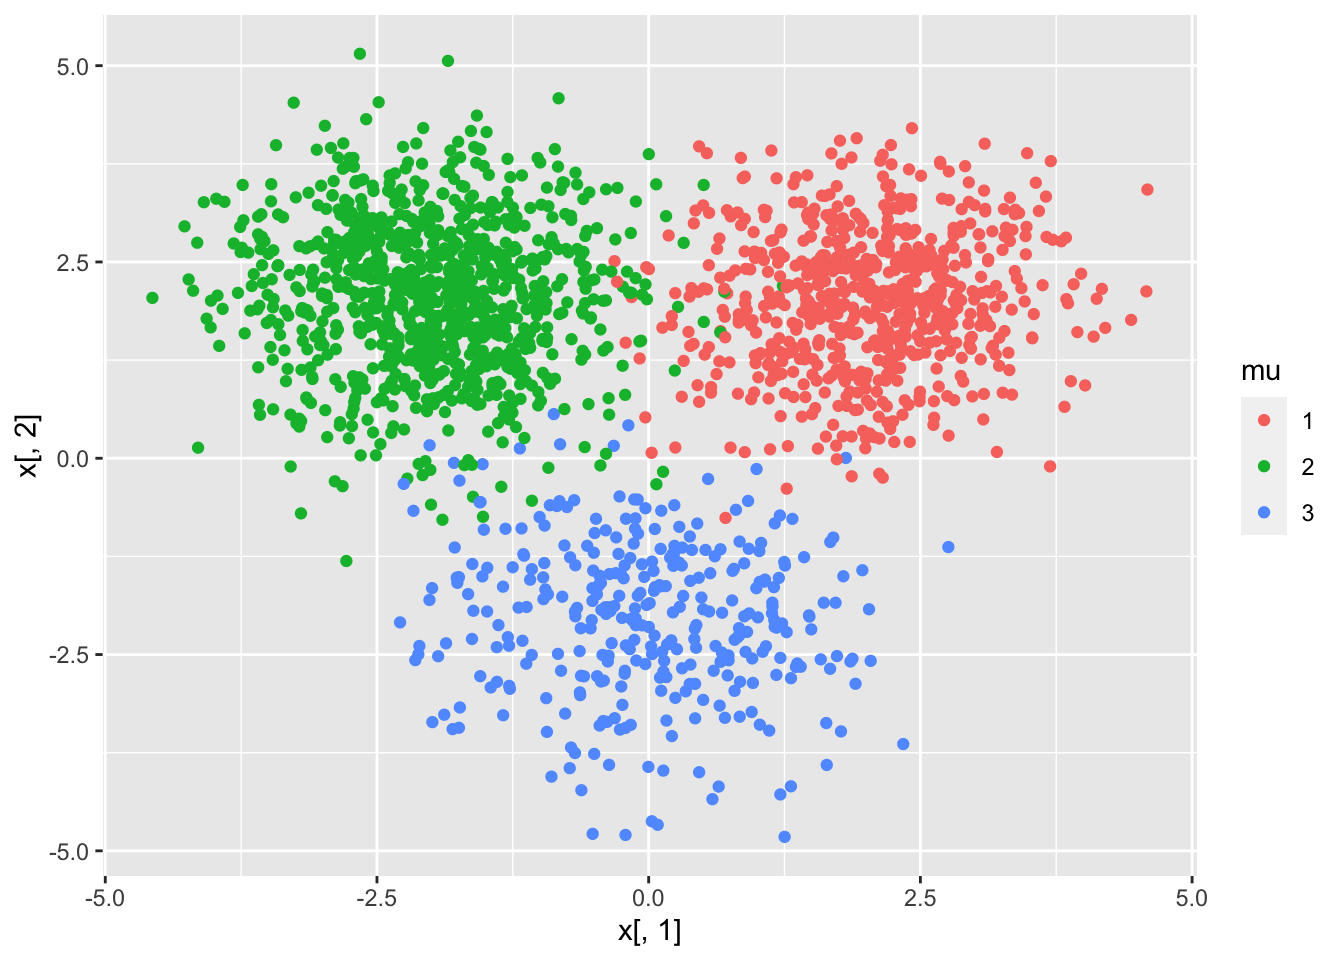
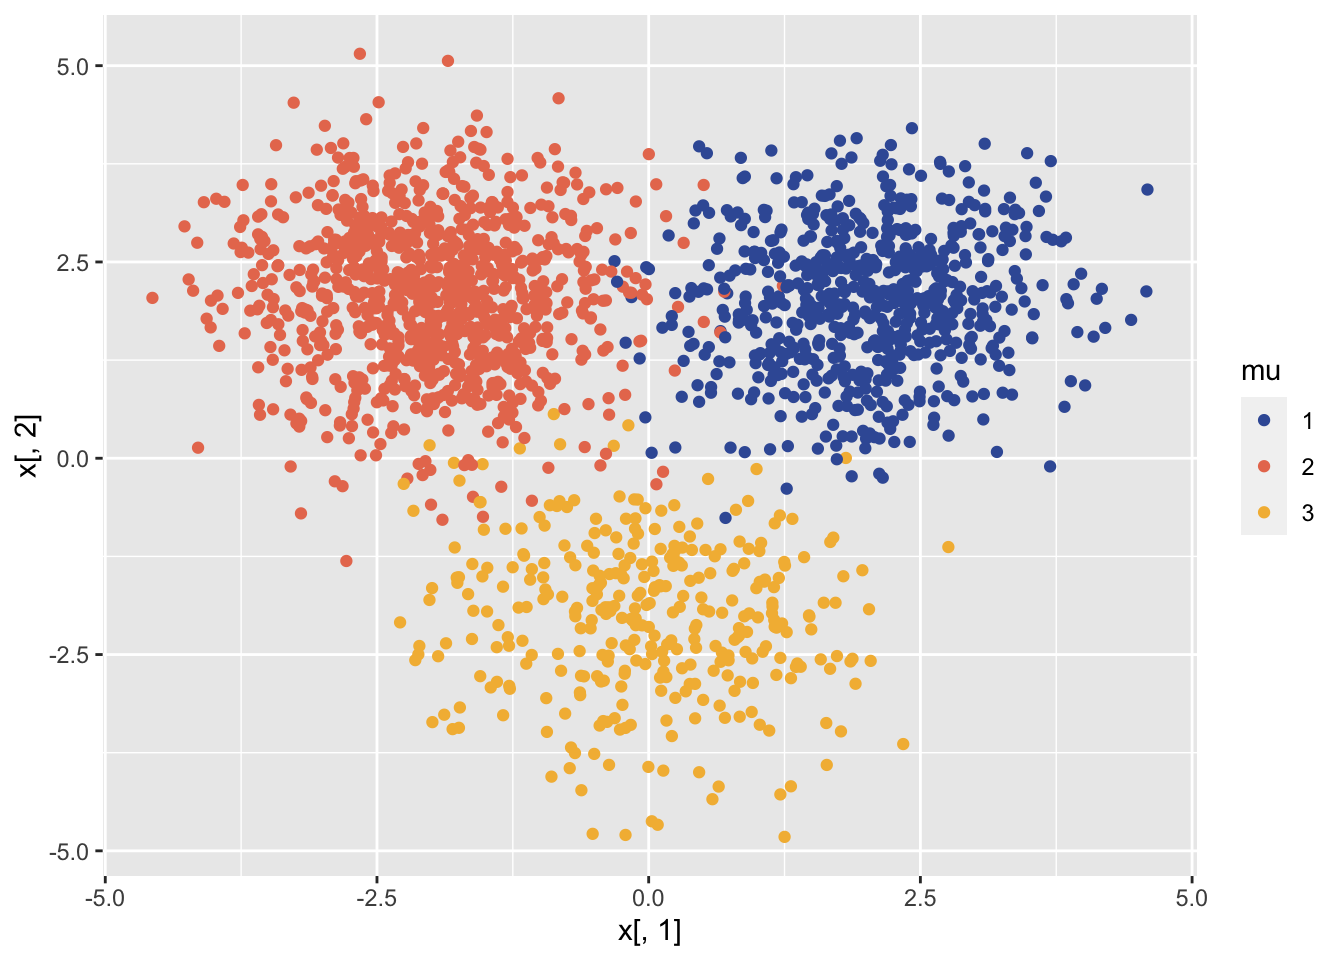
update

diff --git a/docs/application-2-gaussian-mixture-model.html b/docs/application-2-gaussian-mixture-model.html
@@ -438,7 +438,10 @@ Find the expected <span class="math inline">\(z_i\)</span> in the above Q-functi
 <span id="cb8-26"><a href="application-2-gaussian-mixture-model.html#cb8-26" aria-hidden="true" tabindex="-1"></a></span>
 <span id="cb8-27"><a href="application-2-gaussian-mixture-model.html#cb8-27" aria-hidden="true" tabindex="-1"></a><span class="co"># plot the data</span></span>
 <span id="cb8-28"><a href="application-2-gaussian-mixture-model.html#cb8-28" aria-hidden="true" tabindex="-1"></a>df <span class="ot">=</span> <span class="fu">data.frame</span>(<span class="at">x =</span> x, <span class="at">mu =</span> <span class="fu">as.factor</span>(z))</span>
-<span id="cb8-29"><a href="application-2-gaussian-mixture-model.html#cb8-29" aria-hidden="true" tabindex="-1"></a>(<span class="at">plt =</span> <span class="fu">ggplot</span>(df, <span class="fu">aes</span>(<span class="at">x =</span> x[,<span class="dv">1</span>], <span class="at">y =</span> x[,<span class="dv">2</span>], <span class="at">color =</span> mu, <span class="at">fill =</span> mu)) <span class="sc">+</span> <span class="fu">geom_point</span>())</span></code></pre></div>
+<span id="cb8-29"><a href="application-2-gaussian-mixture-model.html#cb8-29" aria-hidden="true" tabindex="-1"></a></span>
+<span id="cb8-30"><a href="application-2-gaussian-mixture-model.html#cb8-30" aria-hidden="true" tabindex="-1"></a><span class="fu">ggplot</span>(df, <span class="fu">aes</span>(<span class="at">x =</span> x[,<span class="dv">1</span>], <span class="at">y =</span> x[,<span class="dv">2</span>], <span class="at">col =</span> mu, <span class="at">fill =</span> mu)) <span class="sc">+</span> </span>
+<span id="cb8-31"><a href="application-2-gaussian-mixture-model.html#cb8-31" aria-hidden="true" tabindex="-1"></a>  <span class="fu">geom_point</span>() <span class="sc">+</span> </span>
+<span id="cb8-32"><a href="application-2-gaussian-mixture-model.html#cb8-32" aria-hidden="true" tabindex="-1"></a>  <span class="fu">scale_color_manual</span>(<span class="at">values =</span> <span class="fu">c</span>(<span class="st">&quot;#3B5BA5&quot;</span>, <span class="st">&quot;#E87A5D&quot;</span>, <span class="st">&quot;#F3B941&quot;</span>))</span></code></pre></div>
 <p><img src="bookdownproj_files/figure-html/unnamed-chunk-7-1.png" width="672" /></p>
 <div class="sourceCode" id="cb9"><pre class="sourceCode r"><code class="sourceCode r"><span id="cb9-1"><a href="application-2-gaussian-mixture-model.html#cb9-1" aria-hidden="true" tabindex="-1"></a><span class="co"># E step </span></span>
 <span id="cb9-2"><a href="application-2-gaussian-mixture-model.html#cb9-2" aria-hidden="true" tabindex="-1"></a>doE <span class="ot">&lt;-</span> <span class="cf">function</span>(theta){</span>
